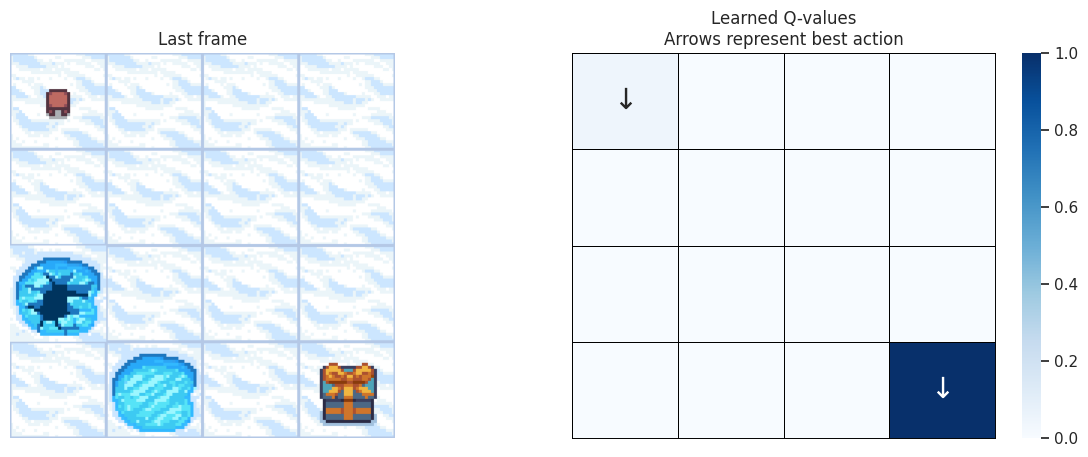
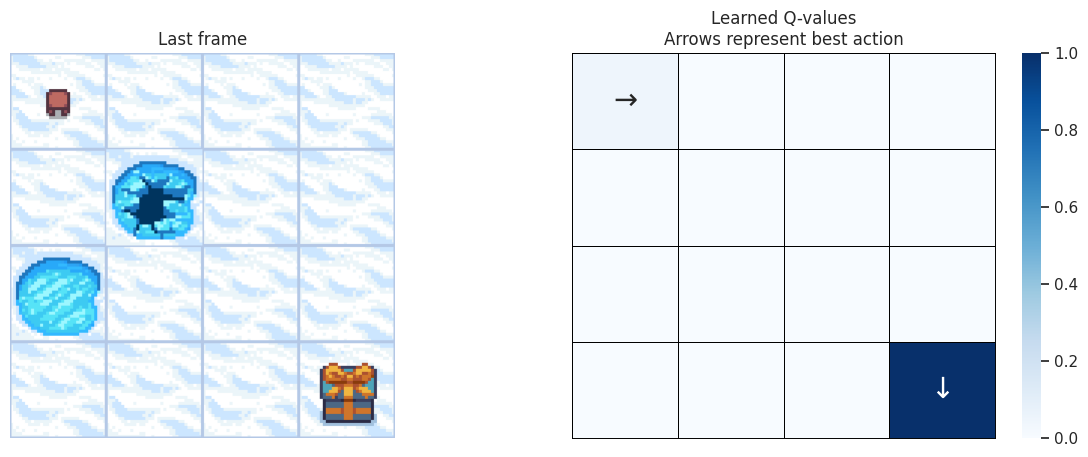
fix seed

diff --git a/frozenlake/policy/base.py b/frozenlake/policy/base.py
@@ -35,7 +35,7 @@ class BasePolicy(ABC):
         for i in range(self.params.n_runs):
             for episode in range(self.params.total_episodes):
                 done = False
-                state, info = self.env.reset(seed=self.params.seed)
+                state, info = self.env.reset()
                 steps = 0
                 total_rewards = 0
                 while not done:
@@ -47,6 +47,8 @@ class BasePolicy(ABC):
                     steps += 1
                     self.trajectories[i].append((state, reward, action))
                     self.update_qtable( state, reward, action)
+                    if trunc:
+                        print(steps)
                     done = term or trunc
                 self.update_qtable( next_state, total_rewards, action)
             rewards[episode, i] = total_rewards

diff --git a/frozenlake/frozenlake.py b/frozenlake/frozenlake.py
@@ -17,7 +17,8 @@ def get_env(params):
         is_slippery=params.is_slippery,
         render_mode="rgb_array",
         desc=generate_random_map(size=params.map_size,
-                                 p=params.proba_frozen))
+                                 p=params.proba_frozen,
+                                 seed=params.seed))
 
     return env
 
@@ -32,6 +33,7 @@ def main():
     t0 = time.time()
     mc_rand = MonteCarloRandom(env, params)
     qtable, steps, rewards, episodes, actions, states = mc_rand.run()
+    print(qtable)
     print('MC random execution time:', time.time() - t0)
     res, st = helpers.postprocess(episodes, params, rewards, steps, params.map_size)
     helpers.plot_q_values_map(qtable, env, params.map_size, params, img_label='mc_rand')

diff --git a/frozenlake/config.py b/frozenlake/config.py
@@ -25,7 +25,7 @@ def get_params():
                     gamma=0.97,
                     epsilon=0.25,
                     map_size=4,
-                    seed=0x101,
+                    seed=101,
                     is_slippery=False,
                     n_runs=20,
                     proba_frozen=0.9,
